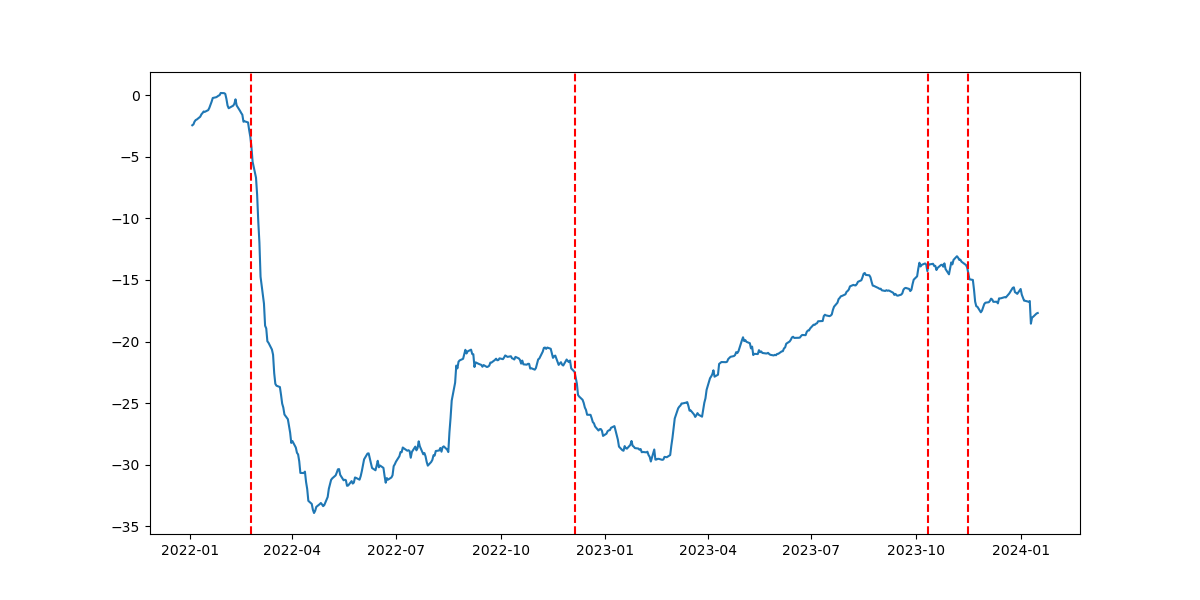
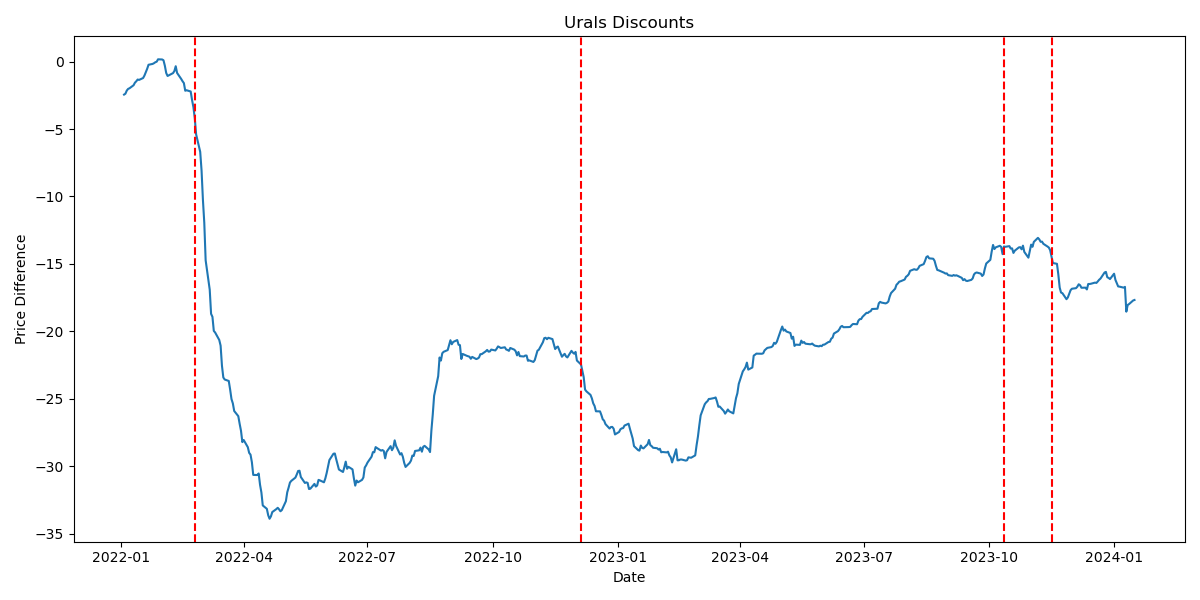
changed up colors and format of graphs

diff --git a/final_products/series.py b/final_products/series.py
@@ -14,8 +14,8 @@ def plotSeries(matching, statista, investing_com, bloomberg, treasury, datastrea
   plt.plot(matching, statista, label='Statista')
   plt.plot(matching, investing_com, label='Investing.com')
   plt.plot(matching, bloomberg, label='Bloomberg')
-  plt.plot(matching, treasury, label = 'Treasury')
   plt.plot(matching, datastream, label = 'Datastream')  
+  plt.plot(matching, treasury, label = 'Treasury')
   plt.title('Urals Discounts')
   plt.xlabel('Date')
   plt.ylabel('Price Difference')
@@ -85,6 +85,10 @@ def plotSeriesExtended(investing_total, statista_total, bloomberg_total, treasur
   plt.axvline(x=pd.to_datetime('12/5/22', format='%m/%d/%y'), color='red', linestyle='--', label='Vertical Line')
   plt.axvline(x=pd.to_datetime('10/12/23', format='%m/%d/%y'), color='red', linestyle='--', label='Vertical Line')
   plt.axvline(x=pd.to_datetime('11/16/23', format='%m/%d/%y'), color='red', linestyle='--', label='Vertical Line')
+  plt.title('Urals Discounts')
+  plt.xlabel('Date')
+  plt.ylabel('Price Difference')
+  plt.tight_layout()
   if not no_treasury:
     plt.savefig('../saved_pngs/series_extended_with_treasury.png')
     print('png saved')
@@ -96,4 +100,4 @@ def plotSeriesExtended(investing_total, statista_total, bloomberg_total, treasur
 
 if __name__ == "__main__":
   plotSeries(matching, statista_data, investing_com_data, bloomberg_data, treasury_data, datastream_data)
-  plotSeriesExtended(investing_total, statista_total, bloomberg_total, treasury_total, datastream_total, True)
+  plotSeriesExtended(investing_total, statista_total, bloomberg_total, treasury_total, datastream_total, False)

diff --git a/final_products/average.py b/final_products/average.py
@@ -72,7 +72,10 @@ def plotAverageExtended(investing_total, statista_total, bloomberg_total, treasu
   plt.axvline(x=pd.to_datetime('12/5/22', format='%m/%d/%y'), color='red', linestyle='--', label='Vertical Line')
   plt.axvline(x=pd.to_datetime('10/12/23', format='%m/%d/%y'), color='red', linestyle='--', label='Vertical Line')
   plt.axvline(x=pd.to_datetime('11/16/23', format='%m/%d/%y'), color='red', linestyle='--', label='Vertical Line')
-
+  plt.title('Urals Discounts')
+  plt.xlabel('Date')
+  plt.ylabel('Price Difference')
+  plt.tight_layout()
   plt.savefig('../saved_pngs/average_extended_no_treasury.png')
   print('png saved')
   plt.show()
